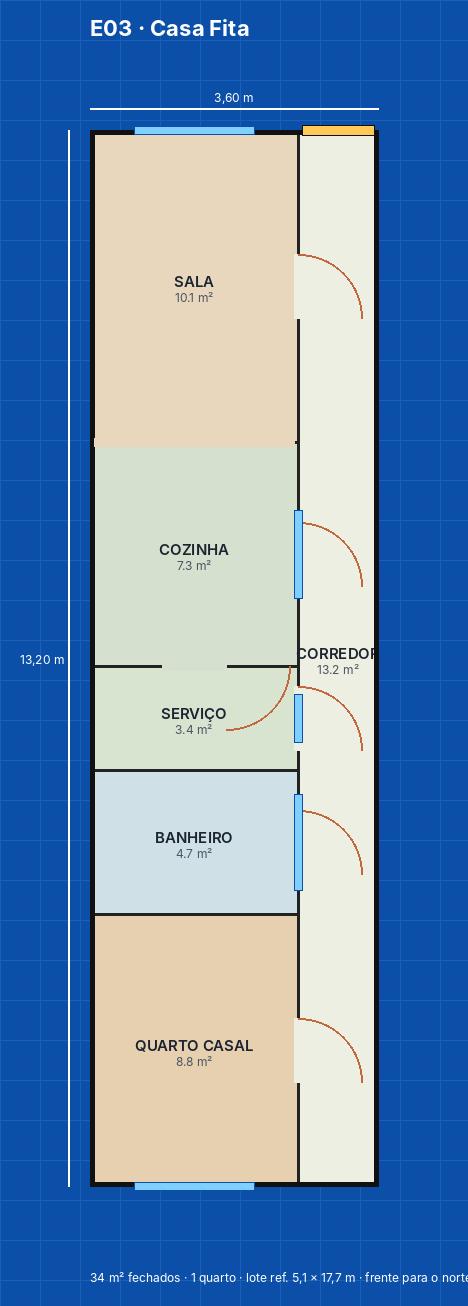
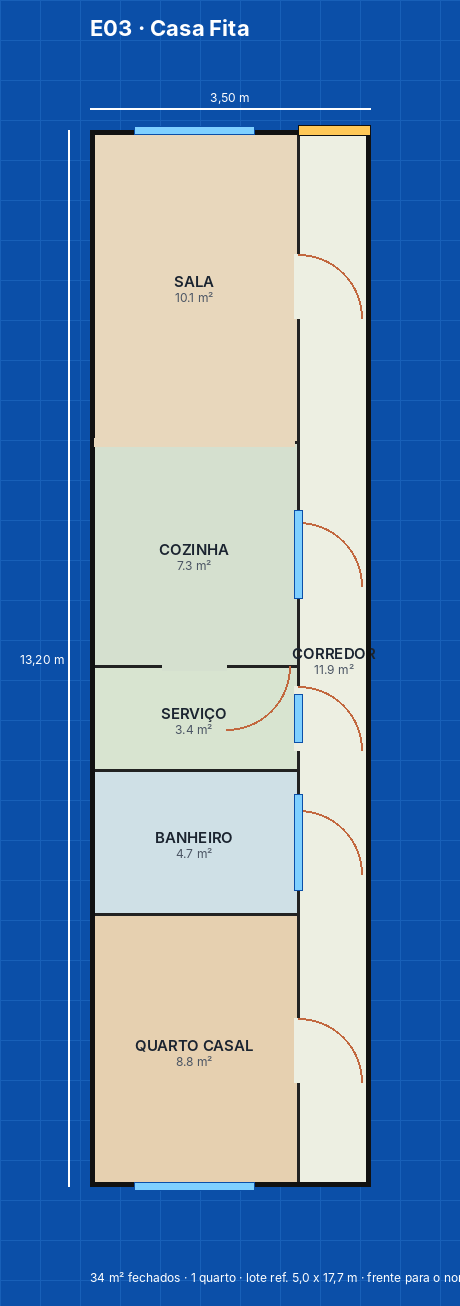
Catálogo atualizado com as 24 plantas validadas
Claude-Session: https://claude.ai/code/session_01DYdRuHyi3Aq9RRNJ68569u

diff --git a/ebook/plantas/projetos.py b/ebook/plantas/projetos.py
@@ -114,7 +114,7 @@ def todas():
                         (3.4, F("quarto1", "Quarto casal", "casal"))],
                        [("ext", "corr", "frente"), ("corr", "sala"), ("sala", "cozinha", "aberto"), ("corr", "cozinha"),
                         ("cozinha", "servico"), ("corr", "servico"), ("corr", "banho"), ("corr", "quarto1")],
-                       "1 quarto", 1, recuos={"esq": 0.0},
+                       "1 quarto", 1, recuos={"esq": 0.0}, corr=0.9,
                        destaque="Cabe em lote de 5 m de frente: todas as janelas dão para o corredor"))
     P.append(casa("E04", "Casa Pátio", 7.5, 8.0,
                   H((3.4, V((4.0, F("sala", "Sala", "sala")), (2.3, F("cozinha", "Cozinha", "cozinha")), (None, F("servico", "Serviço", "servico")))),

diff --git a/ferramentas/plantas.py b/ferramentas/plantas.py
@@ -680,7 +680,7 @@ def cmd_resumo():
         r = p["_r"]
         m = r.metricas
         q = p["quartos_txt"]
-        print(f"| {p['id']} | {p['nome']} | {m['area_total']:.0f} m² | {q} | {p['banheiros']} | "
+        print(f"| {p['id']} | {p['nome']} | {m['area_fechada']:.0f} m² | {q} | {p['banheiros']} | "
               f"{m['lote_comercial'][0]} x {m['lote_comercial'][1]} | {m['orientacao']['melhor']} |")
 
 

diff --git a/ebook/catalogo.md b/ebook/catalogo.md
@@ -32,35 +32,35 @@
 
 | ID | Nome | Área | Quartos | Banheiros | Lote | Destaque | Lançamento | Situação |
 |---|---|---|---|---|---|---|---|---|
-| C01 | Casa Compacta | 55 m² | 2 | 1 | 10 x 20 | Sala e cozinha integradas, hall curto | 1 | `3D` |
-| C02 | Casa Studio | 32 m² | studio | 1 | 8 x 15 | Tudo em um ambiente; boa para aluguel | 2 | `ideia` |
-| C03 | Casa Inicial | 42 m² | 1 | 1 | 8 x 20 | Pronta para ganhar o 2º quarto depois | 1 | `ideia` |
-| C04 | Casa Duo | 48 m² | 2 | 1 | 8 x 20 | Dois quartos no menor espaço possível | 1 | `ideia` |
-| C05 | Casa Popular | 45 m² | 2 | 1 | 10 x 20 | Paredes alinhadas, construção econômica | 2 | `ideia` |
-| C06 | Casa Compacta Suíte | 62 m² | 2 (1 suíte) | 2 | 10 x 20 | Suíte do casal sem aumentar muito a área | 1 | `ideia` |
-| C07 | Casa Compacta Varanda | 58 m² | 2 | 1 | 10 x 25 | Varanda na frente integrada à sala | 2 | `ideia` |
+| C01 | Casa Compacta | 55 m² | 2 | 1 | 8 x 15 | A casa mais enxuta que ainda tem 2 quartos separados e serviço coberto | 1 | `3D` |
+| C02 | Casa Studio | 32 m² | studio | 1 | 6 x 15 | Tudo em um ambiente; boa para aluguel | 2 | `dados` |
+| C03 | Casa Inicial | 41 m² | 1 (+1 depois) | 1 | 7 x 20 | Pronta para ganhar o 2º quarto depois | 1 | `dados` |
+| C04 | Casa Duo | 48 m² | 2 | 1 | 8 x 15 | Varanda na frente e dois quartos do mesmo tamanho | 1 | `dados` |
+| C05 | Casa Popular | 47 m² | 2 | 1 | 8 x 15 | Cabe no padrão de programa habitacional (40 m² ou mais) sem desperdiçar um metro | 2 | `dados` |
+| C06 | Casa Compacta Suíte | 57 m² | 2 (1 suíte) | 2 | 9 x 15 | Suíte do casal sem aumentar muito a área | 1 | `dados` |
+| C07 | Casa Compacta Varanda | 55 m² | 2 | 1 | 8 x 15 | Varanda larga para a rede, a cadeira e o carro parado na chuva | 2 | `dados` |
 
 ## E. Terreno estreito: frente de 5 a 8 m
 
 | ID | Nome | Área | Quartos | Banheiros | Lote | Destaque | Lançamento | Situação |
 |---|---|---|---|---|---|---|---|---|
-| E01 | Casa Estreita | 70 m² | 2 | 2 | 8 x 30 | Corredor lateral com luz natural em todos os cômodos | 1 | `ideia` |
-| E02 | Casa Corredor | 52 m² | 2 | 1 | 6 x 25 | Cômodos em fila, sem perder ventilação | 1 | `ideia` |
-| E03 | Casa Fita | 40 m² | 1 | 1 | 5 x 25 | Para o lote mais estreito | 1 | `ideia` |
-| E04 | Casa Pátio | 68 m² | 2 | 1 | 8 x 25 | Pátio interno que ilumina o meio da casa | 2 | `ideia` |
-| E05 | Casa Estreita Suíte | 60 m² | 2 (1 suíte) | 2 | 6 x 30 | Suíte nos fundos, longe da rua | 1 | `ideia` |
-| E06 | Casa Estreita Gourmet | 78 m² | 2 | 2 | 7 x 30 | Área gourmet nos fundos | 2 | `ideia` |
-| E07 | Casa Estreita 3 Quartos | 88 m² | 3 | 2 | 8 x 30 | Três quartos em 8 m de frente | 2 | `ideia` |
+| E01 | Casa Estreita | 58 m² | 2 (1 suíte) | 2 | 8 x 25 | Garagem na frente e todos os cômodos abrindo para o corredor | 1 | `dados` |
+| E02 | Casa Corredor | 40 m² | 2 | 1 | 7 x 20 | Cômodos em fila, sem perder ventilação | 1 | `dados` |
+| E03 | Casa Fita | 34 m² | 1 | 1 | 5 x 20 | Cabe em lote de 5 m de frente: todas as janelas dão para o corredor | 1 | `dados` |
+| E04 | Casa Pátio | 55 m² | 2 | 1 | 9 x 15 | Pátio de luz entre os quartos: ventilação cruzada e privacidade | 2 | `dados` |
+| E05 | Casa Estreita Suíte | 58 m² | 2 (1 suíte) | 2 | 8 x 20 | Suíte nos fundos, longe da rua | 1 | `dados` |
+| E06 | Casa Estreita Gourmet | 68 m² | 2 (1 suíte) | 2 | 9 x 25 | Área gourmet nos fundos, aberta para o corredor | 2 | `dados` |
+| E07 | Casa Estreita 3 Quartos | 77 m² | 3 (1 suíte) | 2 | 9 x 25 | Três quartos em 8 m de frente | 2 | `dados` |
 
 ## F. Família: 3 ou 4 quartos
 
 | ID | Nome | Área | Quartos | Banheiros | Lote | Destaque | Lançamento | Situação |
 |---|---|---|---|---|---|---|---|---|
-| F01 | Casa Família Compacta | 78 m² | 3 | 1 | 10 x 25 | Três quartos com um banheiro bem posicionado | 1 | `ideia` |
-| F02 | Casa Integrada | 90 m² | 3 | 2 | 12 x 25 | Sala, cozinha e varanda num ambiente só | 2 | `ideia` |
-| F03 | Casa Família | 95 m² | 3 | 2 | 12 x 25 | Dois quartos com acesso ao banheiro social, varanda nos fundos | 1 | `ideia` |
-| F04 | Casa Família Suíte | 105 m² | 3 (1 suíte) | 2 | 12 x 25 | Suíte do casal separada dos quartos das crianças | 1 | `ideia` |
-| F05 | Casa em L | 110 m² | 3 | 2 | 12 x 30 | Formato em L abraçando a varanda | 2 | `ideia` |
+| F01 | Casa Família Compacta | 68 m² | 3 | 1 | 10 x 15 | Três quartos com um banheiro bem posicionado | 1 | `dados` |
+| F02 | Casa Integrada | 86 m² | 3 (1 suíte) | 2 | 12 x 15 | Sala, cozinha e varanda num ambiente só | 2 | `dados` |
+| F03 | Casa Família | 78 m² | 3 (1 suíte) | 2 | 11 x 15 | Dois quartos com acesso ao banheiro social, varanda nos fundos | 1 | `dados` |
+| F04 | Casa Família Suíte | 80 m² | 3 (1 suíte) | 2 | 11 x 20 | Suíte do casal separada dos quartos das crianças | 1 | `dados` |
+| F05 | Casa em L | 90 m² | 3 (1 suíte) | 2 | 13 x 15 | Formato em L abraçando a varanda | 2 | `dados` |
 | F06 | Casa 4 Quartos | 130 m² | 4 (1 suíte) | 3 | 15 x 30 | Para família grande | 3 | `ideia` |
 | F07 | Casa Térrea Ampla | 150 m² | 4 (2 suítes) | 3 | 15 x 30 | Duas suítes, área social grande | 3 | `ideia` |
 
@@ -70,13 +70,13 @@
 |---|---|---|---|---|---|---|---|---|
 | S01 | Casa com Edícula | 85 + 25 m² | 2 + kitnet | 2 | 10 x 30 | Kitnet nos fundos para renda extra | 3 | `ideia` |
 | S02 | Casas Geminadas | 2 x 50 m² | 2 cada | 1 cada | 12 x 25 | Duas casas no mesmo lote | 3 | `ideia` |
-| S03 | Casa Acessível | 70 m² | 2 | 1 | 12 x 25 | Portas largas, banheiro adaptado, sem degraus | 2 | `ideia` |
-| S04 | Casa Home Office | 75 m² | 2 + escritório | 1 | 10 x 25 | Escritório com entrada separada | 1 | `ideia` |
-| S05 | Casa de Praia | 65 m² | 2 | 2 | 10 x 25 | Ducha externa e varanda | 2 | `ideia` |
+| S03 | Casa Acessível | 75 m² | 2 | 1 | 11 x 15 | Sem degrau, circulação de 1,50 m, banheiro com giro de cadeira de rodas e portas largas | 2 | `dados` |
+| S04 | Casa Home Office | 66 m² | 2 + escritório | 1 | 10 x 20 | Escritório com porta para a rua: cliente entra sem passar pela casa | 1 | `dados` |
+| S05 | Casa de Praia | 59 m² | 2 (1 suíte) | 2 | 9 x 15 | Varandão na frente e ventilação cruzada em todos os cômodos | 2 | `dados` |
 | S06 | Casa de Campo | 90 m² | 2 | 2 | 20 x 30 | Varanda em volta da casa | 3 | `ideia` |
-| S07 | Casa Gourmet | 100 m² | 3 | 2 | 12 x 30 | Área gourmet integrada à sala | 2 | `ideia` |
+| S07 | Casa Gourmet | 74 m² | 3 (1 suíte) | 2 | 11 x 15 | Cozinha aberta para a área gourmet, a casa que recebe | 2 | `dados` |
 | S08 | Casa Garagem Dupla | 95 m² | 2 | 2 | 12 x 25 | Garagem coberta para 2 carros | 3 | `ideia` |
-| S09 | Casa de Esquina | 85 m² | 3 | 2 | 12 x 25 | Duas fachadas, entrada por qualquer rua | 2 | `ideia` |
+| S09 | Casa de Esquina | 78 m² | 3 (1 suíte) | 2 | 14 x 15 | Duas fachadas, entrada por qualquer rua | 2 | `dados` |
 | S10 | Casa Multigeração | 120 m² | 3 + suíte térrea | 3 | 15 x 25 | Suíte acessível para os avós | 3 | `ideia` |
 
 ## O. Sobrados: dois pavimentos

diff --git a/PAINEL.md b/PAINEL.md
@@ -9,12 +9,12 @@
 ## 1. Situação agora
 
 <!-- situacao:inicio -->
-_Gerado por `ferramentas/atualizar-painel.py` em 19/11/2026. Não edite à mão._
+_Gerado por `ferramentas/atualizar-painel.py` em 20/11/2026. Não edite à mão._
 
 | Indicador | Situação |
 |---|---|
 | **1º lançamento do e-book** | 0 de 12 prontas · 1 com 3D |
-| Plantas no catálogo | 35 · ideia 34 · dados 0 · 3D 1 · pronta 0 |
+| Plantas no catálogo | 35 · ideia 11 · dados 23 · 3D 1 · pronta 0 |
 | Progresso do 1º lançamento | `░░░░░░░░░░░░░░░░░░░░` 0/12 |
 | Vídeo de anúncio | 5 de 5 versões renderizadas · apresentador não gravado |
 | Avisos de conferência | 0 |
